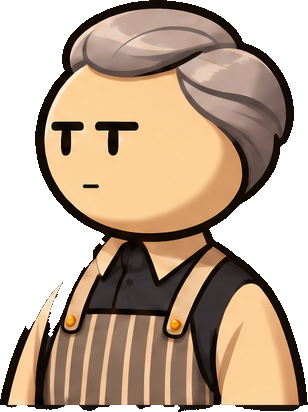
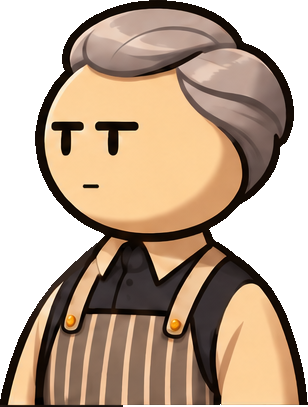
Balance the bartender’s dialogue portrait scale

diff --git a/style.css b/style.css
@@ -188,6 +188,10 @@ canvas {
   background: var(--portrait-image) center / contain no-repeat;
 }
 
+.conversation-portrait.standalone-portrait[data-portrait="creamery-bartender"]::before {
+  width: 79%;
+}
+
 .conversation-portraits figcaption {
   padding: 8px;
   background: #24392c;
